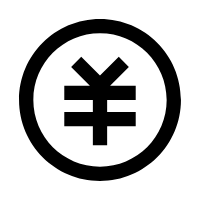
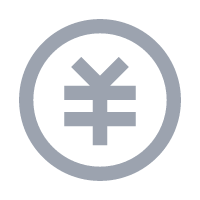
feat: 自动配置外部链接icon，支持部署后开箱即用
主要改动：
1. 添加三个icon图片文件：
   - money-rmb.png (侧边栏默认状态)
   - money-rmb-active.png (侧边栏激活状态)
   - money-rmb-card.png (首页卡片)

2. 更新初始化脚本：
   - 新建记录时自动配置所有icon字段
   - 已有记录时自动更新缺失的icon字段
   - 无需手动在管理后台配置

Changed region(s): [[0.09, 0.09, 0.93, 0.93], [0.3, 0.27, 0.69, 0.75]]

diff --git a/next/src/app/api/admin/external-links/init/route.ts b/next/src/app/api/admin/external-links/init/route.ts
@@ -15,6 +15,9 @@ async function initializeData() {
         description TEXT,
         icon TEXT,
         iconImage TEXT,
+        iconImageActive TEXT,
+        dashboardIcon TEXT,
+        dashboardIconImage TEXT,
         url TEXT NOT NULL,
         position TEXT NOT NULL,
         sortOrder INTEGER DEFAULT 0,
@@ -32,23 +35,30 @@ async function initializeData() {
     if (existing.count === 0) {
       // 插入初始数据
       const insertStmt = db.prepare(`
-        INSERT INTO external_links (key, label, description, icon, iconImage, url, position, sortOrder, enabled, hot, color)
-        VALUES (?, ?, ?, ?, ?, ?, ?, ?, ?, ?, ?)
+        INSERT INTO external_links (
+          key, label, description, icon, iconImage, iconImageActive,
+          dashboardIcon, dashboardIconImage, url, position, sortOrder,
+          enabled, hot, color
+        )
+        VALUES (?, ?, ?, ?, ?, ?, ?, ?, ?, ?, ?, ?, ?, ?)
       `);
 
       // 插入申请项目投资
       insertStmt.run(
-        'investment',
-        '申请项目投资',
-        '单个OPC项目，申请10-200万投资额度，3个工作日内反馈',
-        null,
-        '/money-rmb.png',
-        'https://mp.weixin.qq.com/s/JS1j0fXw6Tf2t6yrOwbMuQ',
-        'both',
-        2,
-        1,
-        1,
-        'purple'
+        'investment',                                                    // key
+        '申请项目投资',                                                  // label
+        '单个OPC项目，申请10-200万投资额度，3个工作日内反馈',           // description
+        null,                                                            // icon (Lucide图标名，不使用)
+        '/money-rmb.png',                                               // iconImage (侧边栏默认图标)
+        '/money-rmb-active.png',                                        // iconImageActive (侧边栏激活图标)
+        null,                                                            // dashboardIcon (首页卡片Lucide图标，不使用)
+        '/money-rmb-card.png',                                          // dashboardIconImage (首页卡片图标)
+        'https://mp.weixin.qq.com/s/JS1j0fXw6Tf2t6yrOwbMuQ',          // url
+        'both',                                                          // position (侧边栏+首页卡片)
+        2,                                                               // sortOrder
+        1,                                                               // enabled
+        1,                                                               // hot
+        'purple'                                                         // color
       );
 
       // 插入OpenClaw学习中心
@@ -57,6 +67,9 @@ async function initializeData() {
         'OpenClaw学习中心',
         'AI开发框架教程，快速上手构建智能应用',
         'GraduationCap',
+        null,
+        null,
+        null,
         null,
         'https://weopc.com.cn/openclaw',
         'sidebar',
@@ -68,10 +81,25 @@ async function initializeData() {
 
       db.close();
       return NextResponse.json({ message: 'Initialized successfully', count: 2 });
-    }
+    } else {
+      // 已有数据，检查是否需要更新investment记录
+      const investmentRecord = db.prepare('SELECT * FROM external_links WHERE key = ?').get('investment') as any;
 
-    db.close();
-    return NextResponse.json({ message: 'Already initialized', count: existing.count });
+      if (investmentRecord && (!investmentRecord.iconImageActive || !investmentRecord.dashboardIconImage)) {
+        // 更新investment记录，添加激活图标和卡片图标
+        db.prepare(`
+          UPDATE external_links
+          SET iconImageActive = ?, dashboardIconImage = ?, updatedAt = CURRENT_TIMESTAMP
+          WHERE key = ?
+        `).run('/money-rmb-active.png', '/money-rmb-card.png', 'investment');
+
+        db.close();
+        return NextResponse.json({ message: 'Updated investment icons', count: existing.count });
+      }
+
+      db.close();
+      return NextResponse.json({ message: 'Already initialized', count: existing.count });
+    }
   } catch (error) {
     console.error('Error initializing external links:', error);
     return NextResponse.json({ error: 'Failed to initialize' }, { status: 500 });
